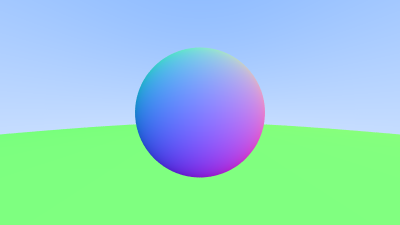
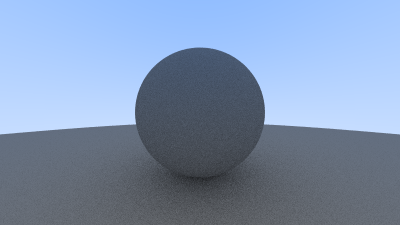
1、refactor ray_color() from recursion to iteration 2、diffuse sphere

diff --git a/camera.h b/camera.h
@@ -2,7 +2,6 @@
 #define CAMERA_H
 
 #include "rt_constants.h"
-#include <curand_kernel.h>
 #include "hittable.h"
 
 class camera {
@@ -40,26 +39,34 @@ public:
         return pixel_delta_v;
     }
 
-    __device__ static color ray_color(const ray &r, hittable_list **d_world) {
-        hit_record rec;
-        // 击中球面的光线，根据法向量对相应球体着色
-        if (d_world[0]->hit(r, interval(0, infinity), rec)) {
-            // 法向量区间 [-1, 1]，需变换区间至 [0, 1]
-            return 0.5f * (rec.normal + color(1, 1, 1));
+    __device__ static color ray_color(const ray &r, int depth, hittable_list **d_world, curandState &rand_state) {
+        ray cur_ray = r;
+        float cur_attenuation = 1.0f;
+        for (int i = 0; i < depth; i++) {
+            hit_record rec;
+            // 光线反射时由于浮点计算误差导致光源结果可能位于球面内部，此时光线第一次击中球体的距离 t 会非常小，设置 interval 0.001 忽略这种情况
+            if (d_world[0]->hit(cur_ray, interval(0.001f, infinity), rec)) {
+                // 模拟哑光材料漫反射
+                vec3 direction = random_on_hemisphere(rec.normal, rand_state);
+                cur_attenuation *= 0.5f;
+                cur_ray = ray(rec.p, direction);
+            } else {
+                // 没有击中球面的光线，可理解为背景颜色，颜色根据高度 y 线性渐变
+                // -1.0 < y < 1.0
+                vec3 unit_direction = unit_vector(r.direction());
+                // 0.0 < a < 1.0
+                float a = 0.5f * (unit_direction.y() + 1.0f);
+                // 线性渐变
+                vec3 c = (1.0f - a) * color(1.0, 1.0, 1.0) + a * color(0.5, 0.7, 1.0);
+                return cur_attenuation * c;
+            }
         }
-
-        // 没有击中球面的光线，可理解为背景颜色，颜色根据高度 y 线性渐变
-        // -1.0 < y < 1.0
-        vec3 unit_direction = unit_vector(r.direction());
-        // 0.0 < a < 1.0
-        float a = 0.5f * (unit_direction.y() + 1.0f);
-        // 线性渐变
-        return (1.0f - a) * color(1.0, 1.0, 1.0) + a * color(0.5, 0.7, 1.0);
+        return color(0, 0, 0);
     }
 
     __device__ static vec3 sample_square(curandState &local_rand_state) {
         // Returns the vector to a random point in the [-0.5, -0.5]-[+0.5, +0,5] unit square.
-        return vec3(curand_uniform(&local_rand_state) - 0.5, curand_uniform(&local_rand_state) - 0.5, 0);
+        return vec3(random_double(local_rand_state) - 0.5, random_double(local_rand_state) - 0.5, 0);
     }
 
     __device__ static ray get_ray(int i, int j, camera **cam, curandState &local_rand_state) {

diff --git a/vec3.h b/vec3.h
@@ -4,6 +4,8 @@
 #include <cmath>
 #include <iostream>
 
+#include "rt_constants.h"
+
 using std::sqrt;
 
 class vec3 {
@@ -12,9 +14,11 @@ public:
 
     // __host__ 修饰的函数在 CPU 端调用，在 CPU 上执行
     // __device__ 修饰的函数在 GPU 端调用，在 GPU 上执行
-    __host__ __device__ vec3() : e{0, 0, 0} {}
+    __host__ __device__ vec3() : e{0, 0, 0} {
+    }
 
-    __host__ __device__ vec3(float e0, float e1, float e2) : e{e0, e1, e2} {}
+    __host__ __device__ vec3(float e0, float e1, float e2) : e{e0, e1, e2} {
+    }
 
     // const 修饰的是函数 x() 。表示该函数的函数体中的操作不会修改当前这个类的类对象。
     __host__ __device__ float x() const { return e[0]; }
@@ -53,6 +57,18 @@ public:
 
     __host__ __device__ float length_squared() const {
         return e[0] * e[0] + e[1] * e[1] + e[2] * e[2];
+    }
+
+    __device__ static vec3 random(curandState &rand_state) {
+        return vec3(random_double(rand_state),
+                    random_double(rand_state),
+                    random_double(rand_state));
+    }
+
+    __device__ static vec3 random(curandState &rand_state, float min, float max) {
+        return vec3(random_double(rand_state, min, max),
+                    random_double(rand_state, min, max),
+                    random_double(rand_state, min, max));
     }
 };
 
@@ -107,4 +123,26 @@ __host__ __device__ inline vec3 unit_vector(const vec3 &v) {
     return v / v.length();
 }
 
+__device__ inline vec3 random_in_unit_sphere(curandState &rand_state) {
+    while (true) {
+        auto p = vec3::random(rand_state, -1, 1);
+        if (p.length_squared() < 1)
+            return p;
+    }
+}
+
+// 生成随机方向的单位向量
+__device__ inline vec3 random_unit_vector(curandState &rand_state) {
+    return unit_vector(random_in_unit_sphere(rand_state));
+}
+
+// 从球体表面向外发射随机方向的光线
+__device__ inline vec3 random_on_hemisphere(const vec3 &normal, curandState &rand_state) {
+    vec3 on_unit_sphere = random_unit_vector(rand_state);
+    if (dot(on_unit_sphere, normal) > 0.0)
+        // 与球体法向量同向
+        return on_unit_sphere;
+    // 与球体法向量反向，反转
+    return -on_unit_sphere;
+}
 #endif // VEC3_H

diff --git a/rt_constants.h b/rt_constants.h
@@ -5,6 +5,7 @@
 #include <iostream>
 #include <ctime>
 #include <limits>
+#include <curand_kernel.h>
 
 // limited version of checkCudaErrors from helper_cuda.h in CUDA examples
 #define checkCudaErrors(val) check_cuda( (val), #val, __FILE__, __LINE__ )
@@ -34,6 +35,16 @@ const float pi = 3.1415926535897932385;
 // Utility Functions
 __host__ inline double degrees_to_radians(double degrees){
     return degrees * pi / 180;
+}
+
+__device__ inline float random_double(curandState &rand_state) {
+    // Returns a random real in (0, 1].
+    return curand_uniform(&rand_state);
+}
+
+__device__ inline float random_double(curandState &rand_state, float min, float max) {
+    // Returns a random real in (min, max].
+    return min + (max - min) * random_double(rand_state);
 }
 
 // Common Headers
